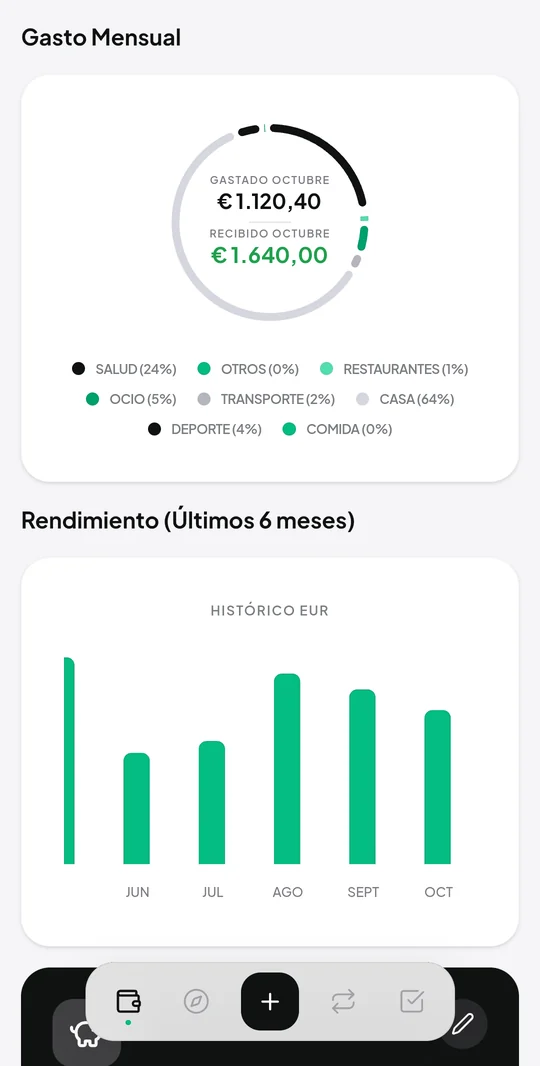
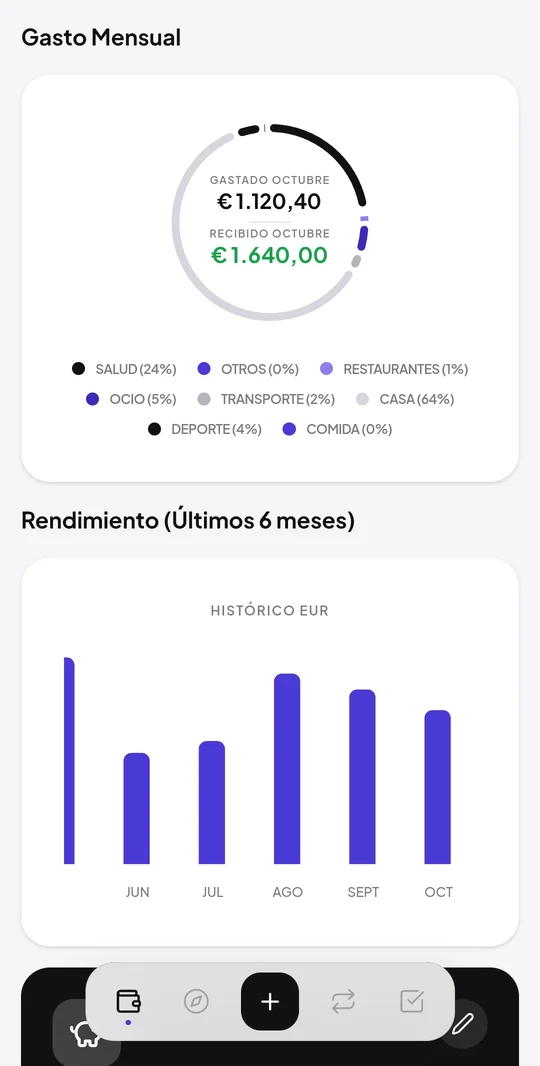
DAILY: vuelve al violeta original
Claude-Session: https://claude.ai/code/session_017YMgUjJMwcdHKwFLi7AMVC

diff --git a/components/landing/Landing.tsx b/components/landing/Landing.tsx
@@ -1408,8 +1408,8 @@ function BordadoScreen({ s }) {
   return <div className="relative flex h-full flex-col font-sys" style={{ background: BOR.crema }}><StatusBar />{body}{["calendario", "kits", "noticias", "perfil"].includes(s) && barra}</div>;
 }
 
-// --- DAILY (verde tipo imagin #03BD85; la app real usa violeta #4B3AD6) ---
-const DLY = { fondo: "#F5F5F7", tinta: "#111114", violeta: "#03BD85", gris: "#7A7A85" };
+// --- DAILY (violeta #4B3AD6, tinta #111114) ---
+const DLY = { fondo: "#F5F5F7", tinta: "#111114", violeta: "#4B3AD6", gris: "#7A7A85" };
 function DailyScreen({ s }) {
   // Cabecera y etiquetas como en la app real: flecha atrás, título grande, rótulos en mayúsculas espaciadas.
   const etq = (t) => <span className="text-[6.5px] font-semibold uppercase tracking-[0.14em]" style={{ color: DLY.gris }}>{t}</span>;
@@ -1453,9 +1453,9 @@ function DailyScreen({ s }) {
           <span className="text-[24px] font-bold tracking-[-0.03em] tnum">US$ 12.480</span>
           <div className="flex gap-1.5">{["ARS", "USD", "EUR"].map((c) => <span key={c} className={`rounded-full px-2 py-0.5 text-[9px] font-bold ${c === "USD" ? "text-white" : "bg-white/10 text-white/60"}`} style={c === "USD" ? { background: DLY.violeta } : undefined}>{c}</span>)}</div>
           <svg viewBox="0 0 200 60" className="mt-1 w-full" aria-hidden="true">
-            <defs><linearGradient id="dly-g" x1="0" x2="0" y1="0" y2="1"><stop offset="0" stopColor="#03BD85" stopOpacity=".6" /><stop offset="1" stopColor="#03BD85" stopOpacity="0" /></linearGradient></defs>
+            <defs><linearGradient id="dly-g" x1="0" x2="0" y1="0" y2="1"><stop offset="0" stopColor="#4B3AD6" stopOpacity=".6" /><stop offset="1" stopColor="#4B3AD6" stopOpacity="0" /></linearGradient></defs>
             <path d="M0 48 L30 42 L60 44 L90 30 L120 34 L150 20 L180 24 L200 12 L200 60 L0 60Z" fill="url(#dly-g)" />
-            <motion.path d="M0 48 L30 42 L60 44 L90 30 L120 34 L150 20 L180 24 L200 12" fill="none" stroke="#46EAB9" strokeWidth="2" initial={{ pathLength: 0 }} animate={{ pathLength: 1 }} transition={{ duration: 1.2 }} />
+            <motion.path d="M0 48 L30 42 L60 44 L90 30 L120 34 L150 20 L180 24 L200 12" fill="none" stroke="#8B7BFF" strokeWidth="2" initial={{ pathLength: 0 }} animate={{ pathLength: 1 }} transition={{ duration: 1.2 }} />
           </svg>
         </div>
         <div className="mx-3 mt-2.5 grid grid-cols-2 gap-2">
@@ -1470,7 +1470,7 @@ function DailyScreen({ s }) {
       <>
         {cab("Mis cuentas")}
         <div className="mt-3 flex flex-col gap-2 px-3">
-          {[["Banco", "Cuenta sueldo", "AR$ 845.200", "#03BD85"], ["Billetera virtual", "Uso diario", "AR$ 92.300", "#111114"], ["Tarjeta de crédito", "Cierra el 24", "− AR$ 210.400", "#C24A7A"], ["Inversiones", "Cartera", "US$ 6.150", "#1F9D6B"], ["Efectivo", "En casa", "€ 320", "#B98A2E"]].map(([n, d, v, c]) => (
+          {[["Banco", "Cuenta sueldo", "AR$ 845.200", "#4B3AD6"], ["Billetera virtual", "Uso diario", "AR$ 92.300", "#111114"], ["Tarjeta de crédito", "Cierra el 24", "− AR$ 210.400", "#C24A7A"], ["Inversiones", "Cartera", "US$ 6.150", "#1F9D6B"], ["Efectivo", "En casa", "€ 320", "#B98A2E"]].map(([n, d, v, c]) => (
             <div key={n} className="flex items-center gap-2.5 rounded-[16px] bg-white px-3 py-2.5">
               <span className="h-8 w-8 shrink-0 rounded-[10px]" style={{ background: c }} />
               <span className="flex min-w-0 flex-1 flex-col"><span className="truncate text-[11.5px] font-bold" style={{ color: DLY.tinta }}>{n}</span><span className="truncate text-[9.5px]" style={{ color: DLY.gris }}>{d}</span></span>
@@ -1481,7 +1481,7 @@ function DailyScreen({ s }) {
       </>
     );
   } else if (s === "categorias") {
-    const seg = [["Vivienda", 38, "#03BD85"], ["Comida", 24, "#46EAB9"], ["Transporte", 18, "#111114"], ["Ocio", 20, "#A7F5DE"]];
+    const seg = [["Vivienda", 38, "#4B3AD6"], ["Comida", 24, "#8B7BFF"], ["Transporte", 18, "#111114"], ["Ocio", 20, "#C9C3FF"]];
     let acc = 0;
     body = (
       <>
@@ -1503,7 +1503,7 @@ function DailyScreen({ s }) {
             <div key={n} className="flex items-center gap-2.5 rounded-[16px] bg-white px-3 py-2.5">
               <span className={`flex h-5 w-5 items-center justify-center rounded-full ${ok ? "text-white" : "border"}`} style={ok ? { background: DLY.violeta } : { borderColor: "#D5D5DC" }}>{ok && OK}</span>
               <span className="flex-1 text-[11.5px] font-bold" style={{ color: DLY.tinta }}>{n}</span>
-              <span className="rounded-full px-2 py-0.5 text-[9px] font-semibold" style={ok ? { background: "#E3F8F0", color: DLY.violeta } : { background: "#FFF1E6", color: "#B4570F" }}>{e}</span>
+              <span className="rounded-full px-2 py-0.5 text-[9px] font-semibold" style={ok ? { background: "#EEEDFB", color: DLY.violeta } : { background: "#FFF1E6", color: "#B4570F" }}>{e}</span>
             </div>
           ))}
         </div>
@@ -1514,7 +1514,7 @@ function DailyScreen({ s }) {
       <>
         {cabR("Importar", "Movimientos")}
         <div className="mx-3 mt-3 flex flex-col gap-2 rounded-[16px] bg-white p-3">
-          <div className="flex items-center gap-2 rounded-[12px] border border-dashed p-2" style={{ borderColor: "#A7F5DE", background: "#EEFBF6" }}>
+          <div className="flex items-center gap-2 rounded-[12px] border border-dashed p-2" style={{ borderColor: "#C9C3FF", background: "#F4F2FF" }}>
             <span className="flex h-7 w-7 items-center justify-center rounded-[8px] text-[7px] font-extrabold text-white" style={{ background: "#1F9D6B" }}>XLSX</span>
             <span className="flex min-w-0 flex-1 flex-col"><span className="truncate text-[9px] font-bold" style={{ color: DLY.tinta }}>extracto_octubre.xlsx</span><span className="text-[7px]" style={{ color: DLY.gris }}>Excel o CSV de cualquier banco</span></span>
             <span className="flex h-4 w-4 items-center justify-center rounded-full text-white" style={{ background: DLY.tinta }}>{OK}</span>
@@ -1573,7 +1573,7 @@ function DailyScreen({ s }) {
           <span className="text-[10px] text-white/60">12 – 18 de noviembre</span>
           <span className="text-[16px] font-bold">Lisboa, Portugal</span>
           <div className="flex justify-between text-[10px]"><span className="text-white/60">Gastado <b className="text-white tnum">€ 640</b></span><span className="text-white/60">Presupuesto <b className="text-white tnum">€ 900</b></span></div>
-          <span className="h-2 overflow-hidden rounded-full bg-white/15"><motion.span className="block h-full rounded-full" style={{ background: "#46EAB9" }} initial={{ width: 0 }} animate={{ width: "71%" }} transition={{ duration: 0.8 }} /></span>
+          <span className="h-2 overflow-hidden rounded-full bg-white/15"><motion.span className="block h-full rounded-full" style={{ background: "#8B7BFF" }} initial={{ width: 0 }} animate={{ width: "71%" }} transition={{ duration: 0.8 }} /></span>
         </div>
         <div className="mt-2.5 flex flex-col gap-2 px-3">
           {[["Hotel", "€ 320"], ["Comidas", "€ 180"], ["Transporte", "€ 140"]].map(([n, v]) => (
@@ -1583,7 +1583,7 @@ function DailyScreen({ s }) {
       </>
     );
   } else if (s === "cartera") {
-    const seg = [["Acciones", 46, DLY.tinta], ["Bonos", 30, DLY.violeta], ["Fondos", 16, "#46EAB9"], ["Cripto", 8, "#D5D5DC"]];
+    const seg = [["Acciones", 46, DLY.tinta], ["Bonos", 30, DLY.violeta], ["Fondos", 16, "#8B7BFF"], ["Cripto", 8, "#D5D5DC"]];
     let acc = 0;
     body = (
       <>
@@ -1600,10 +1600,10 @@ function DailyScreen({ s }) {
         </div>
         <span className="px-4 pt-3">{etq("Movimientos")}</span>
         <div className="mt-1.5 flex flex-col gap-1.5 px-3">
-          {[["Compra", "10 acciones", "− US$ 480", "21/10/2026", DLY.tinta], ["Venta", "5 bonos", "+ US$ 520", "14/10/2026", "#1F9D6B"], ["Compra", "Fondo común", "− US$ 300", "02/10/2026", DLY.tinta]].map(([t, d, v, f, c], i) => (
+          {[["Compra", "10 acciones", "− US$ 480", "21/10/2026", DLY.violeta], ["Venta", "5 bonos", "+ US$ 520", "14/10/2026", "#1F9D6B"], ["Compra", "Fondo común", "− US$ 300", "02/10/2026", DLY.violeta]].map(([t, d, v, f, c], i) => (
             <div key={i} className="flex items-center gap-2 rounded-[12px] bg-white py-2 pl-2 pr-2.5">
               <span className="h-6 w-[2.5px] rounded-full" style={{ background: c }} />
-              <span className="flex h-6 w-6 items-center justify-center rounded-[7px] text-[9px]" style={{ background: t === "Compra" ? "#EFEFF2" : "#E6F6EE", color: c }}>{t === "Compra" ? "↙" : "↗"}</span>
+              <span className="flex h-6 w-6 items-center justify-center rounded-[7px] text-[9px]" style={{ background: t === "Compra" ? "#EEEDFB" : "#E6F6EE", color: c }}>{t === "Compra" ? "↙" : "↗"}</span>
               <span className="flex min-w-0 flex-1 flex-col"><span className="truncate text-[9px] font-bold" style={{ color: DLY.tinta }}>{d}</span><span className="text-[6.5px] font-medium tracking-[0.06em]" style={{ color: DLY.gris }}>{t.toUpperCase()} · COM. 0,5%</span></span>
               <span className="flex flex-col items-end"><span className="text-[9px] font-bold tnum" style={{ color: DLY.tinta }}>{v}</span><span className="text-[6.5px] tnum" style={{ color: DLY.gris }}>{f}</span></span>
             </div>
@@ -1782,7 +1782,7 @@ const CLIENTES = [
   },
   {
     slug: "daily", nombre: "DAILY", tipo: "Finanzas personales multidivisa",
-    logo: "/clientes/daily.svg", logoFondo: "#111114", fondo: "#F5F5F7", fondoApp: "#F5F5F7", brillo: "rgba(4,190,135,0.28)", App: DailyScreen,
+    logo: "/clientes/daily.svg", logoFondo: "#111114", fondo: "#F5F5F7", fondoApp: "#F5F5F7", brillo: "rgba(75,58,214,0.3)", App: DailyScreen,
     resumen: "Una app web de finanzas personales que reúne todas las cuentas, en pesos, dólares y euros, en un solo lugar.",
     descripcion: [
       "Reúne bancos, billeteras virtuales, tarjetas, inversiones y efectivo en pesos, dólares y euros, y muestra cómo evoluciona el capital mes a mes. Los movimientos se cargan a mano o se importan desde el extracto del banco, en Excel o CSV.",
